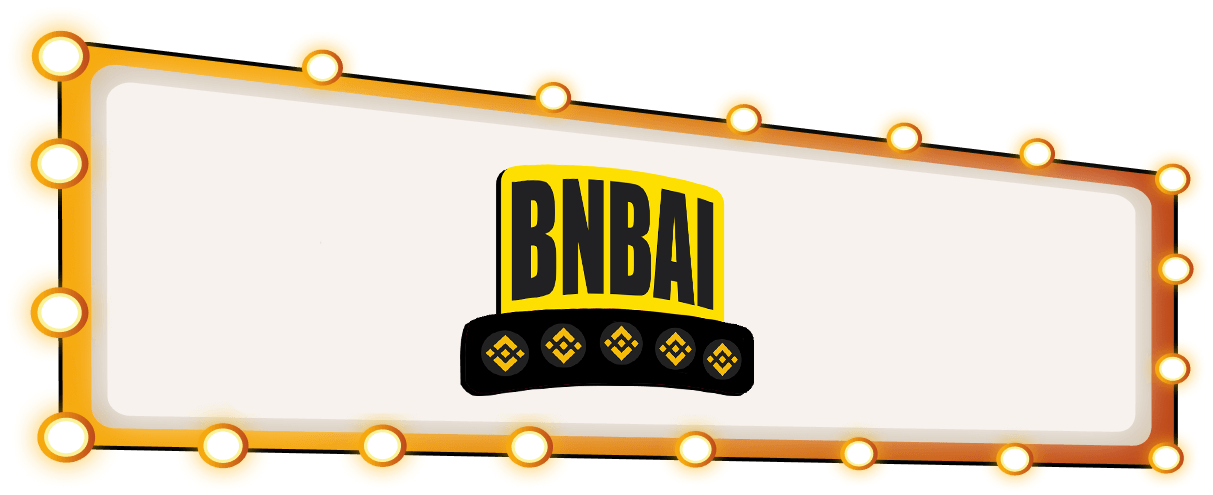
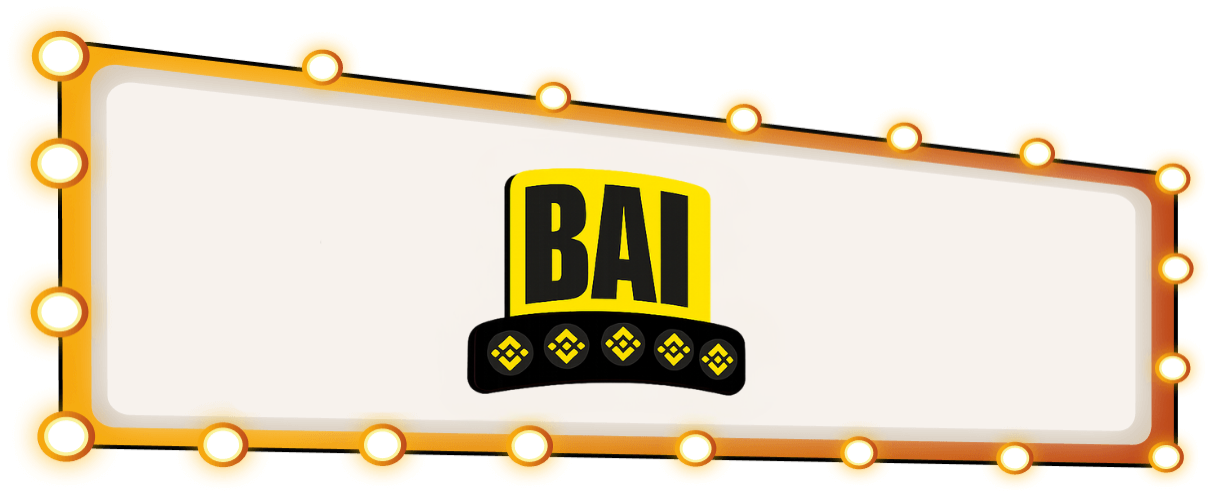
update

diff --git a/index.html b/index.html
@@ -1,7 +1,7 @@
 <!DOCTYPE html>
 <html lang="en">
   <head>
-    <title>$BAI</title>
+    <title>Binance AI | $BAI</title>
     <meta charset="UTF-8" />
     <meta name="format-detection" content="telephone=no" />
     <style>
@@ -130,47 +130,47 @@
         <div class="run-row-text">
           <div class="run-row-text__line">
             <div class="run-row-text__row">
-              <p class="run-row-text__text">Welcome to the BNBAI</p>
+              <p class="run-row-text__text">Welcome to the BAI</p>
               <p class="run-row-text__text run-row-text__text--white">
-                Welcome to the BNBAI
+                Welcome to the BAI
               </p>
-              <p class="run-row-text__text">Welcome to the BNBAI</p>
+              <p class="run-row-text__text">Welcome to the BAI</p>
               <p class="run-row-text__text run-row-text__text--white">
-                Welcome to the BNBAI
+                Welcome to the BAI
               </p>
-              <p class="run-row-text__text">Welcome to the BNBAI</p>
+              <p class="run-row-text__text">Welcome to the BAI</p>
               <p class="run-row-text__text run-row-text__text--white">
-                Welcome to the BNBAI
+                Welcome to the BAI
               </p>
-              <p class="run-row-text__text">Welcome to the BNBAI</p>
+              <p class="run-row-text__text">Welcome to the BAI</p>
               <p class="run-row-text__text run-row-text__text--white">
-                Welcome to the BNBAI
+                Welcome to the BAI
               </p>
-              <p class="run-row-text__text">Welcome to the BNBAI</p>
+              <p class="run-row-text__text">Welcome to the BAI</p>
               <p class="run-row-text__text run-row-text__text--white">
-                Welcome to the BNBAI
+                Welcome to the BAI
               </p>
             </div>
             <div class="run-row-text__row">
-              <p class="run-row-text__text">Welcome to the BNBAI</p>
+              <p class="run-row-text__text">Welcome to the BAI</p>
               <p class="run-row-text__text run-row-text__text--white">
-                Welcome to the BNBAI
+                Welcome to the BAI
               </p>
-              <p class="run-row-text__text">Welcome to the BNBAI</p>
+              <p class="run-row-text__text">Welcome to the BAI</p>
               <p class="run-row-text__text run-row-text__text--white">
-                Welcome to the BNBAI
+                Welcome to the BAI
               </p>
-              <p class="run-row-text__text">Welcome to the BNBAI</p>
+              <p class="run-row-text__text">Welcome to the BAI</p>
               <p class="run-row-text__text run-row-text__text--white">
-                Welcome to the BNBAI
+                Welcome to the BAI
               </p>
-              <p class="run-row-text__text">Welcome to the BNBAI</p>
+              <p class="run-row-text__text">Welcome to the BAI</p>
               <p class="run-row-text__text run-row-text__text--white">
-                Welcome to the BNBAI
+                Welcome to the BAI
               </p>
-              <p class="run-row-text__text">Welcome to the BNBAI</p>
+              <p class="run-row-text__text">Welcome to the BAI</p>
               <p class="run-row-text__text run-row-text__text--white">
-                Welcome to the BNBAI
+                Welcome to the BAI
               </p>
             </div>
           </div>
